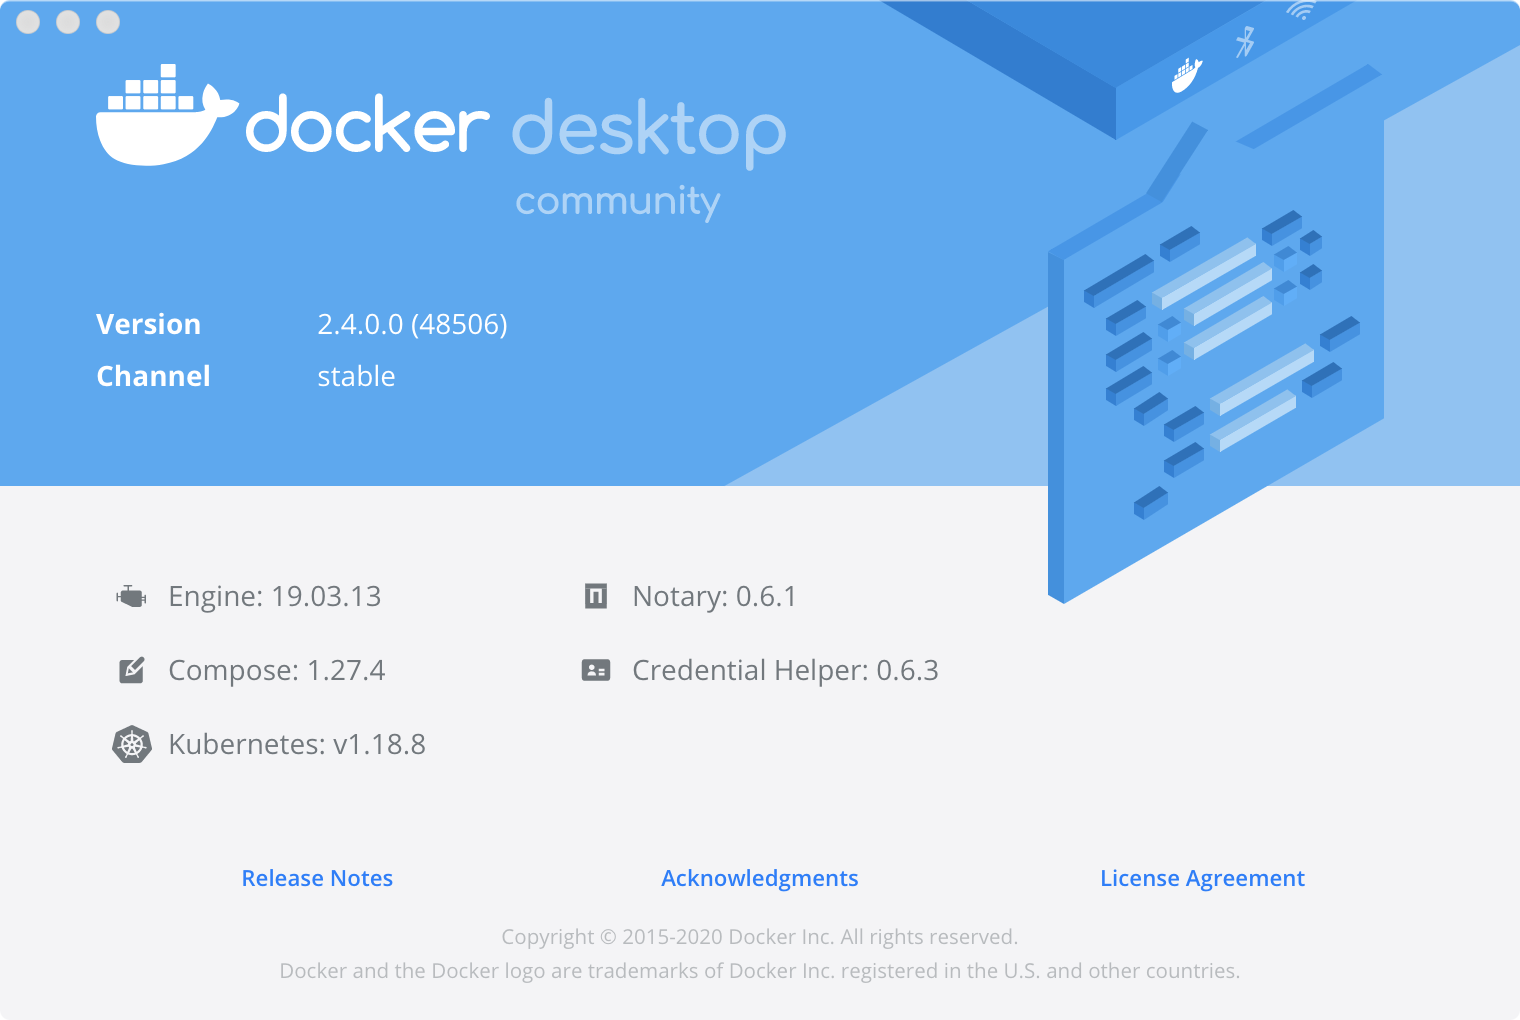
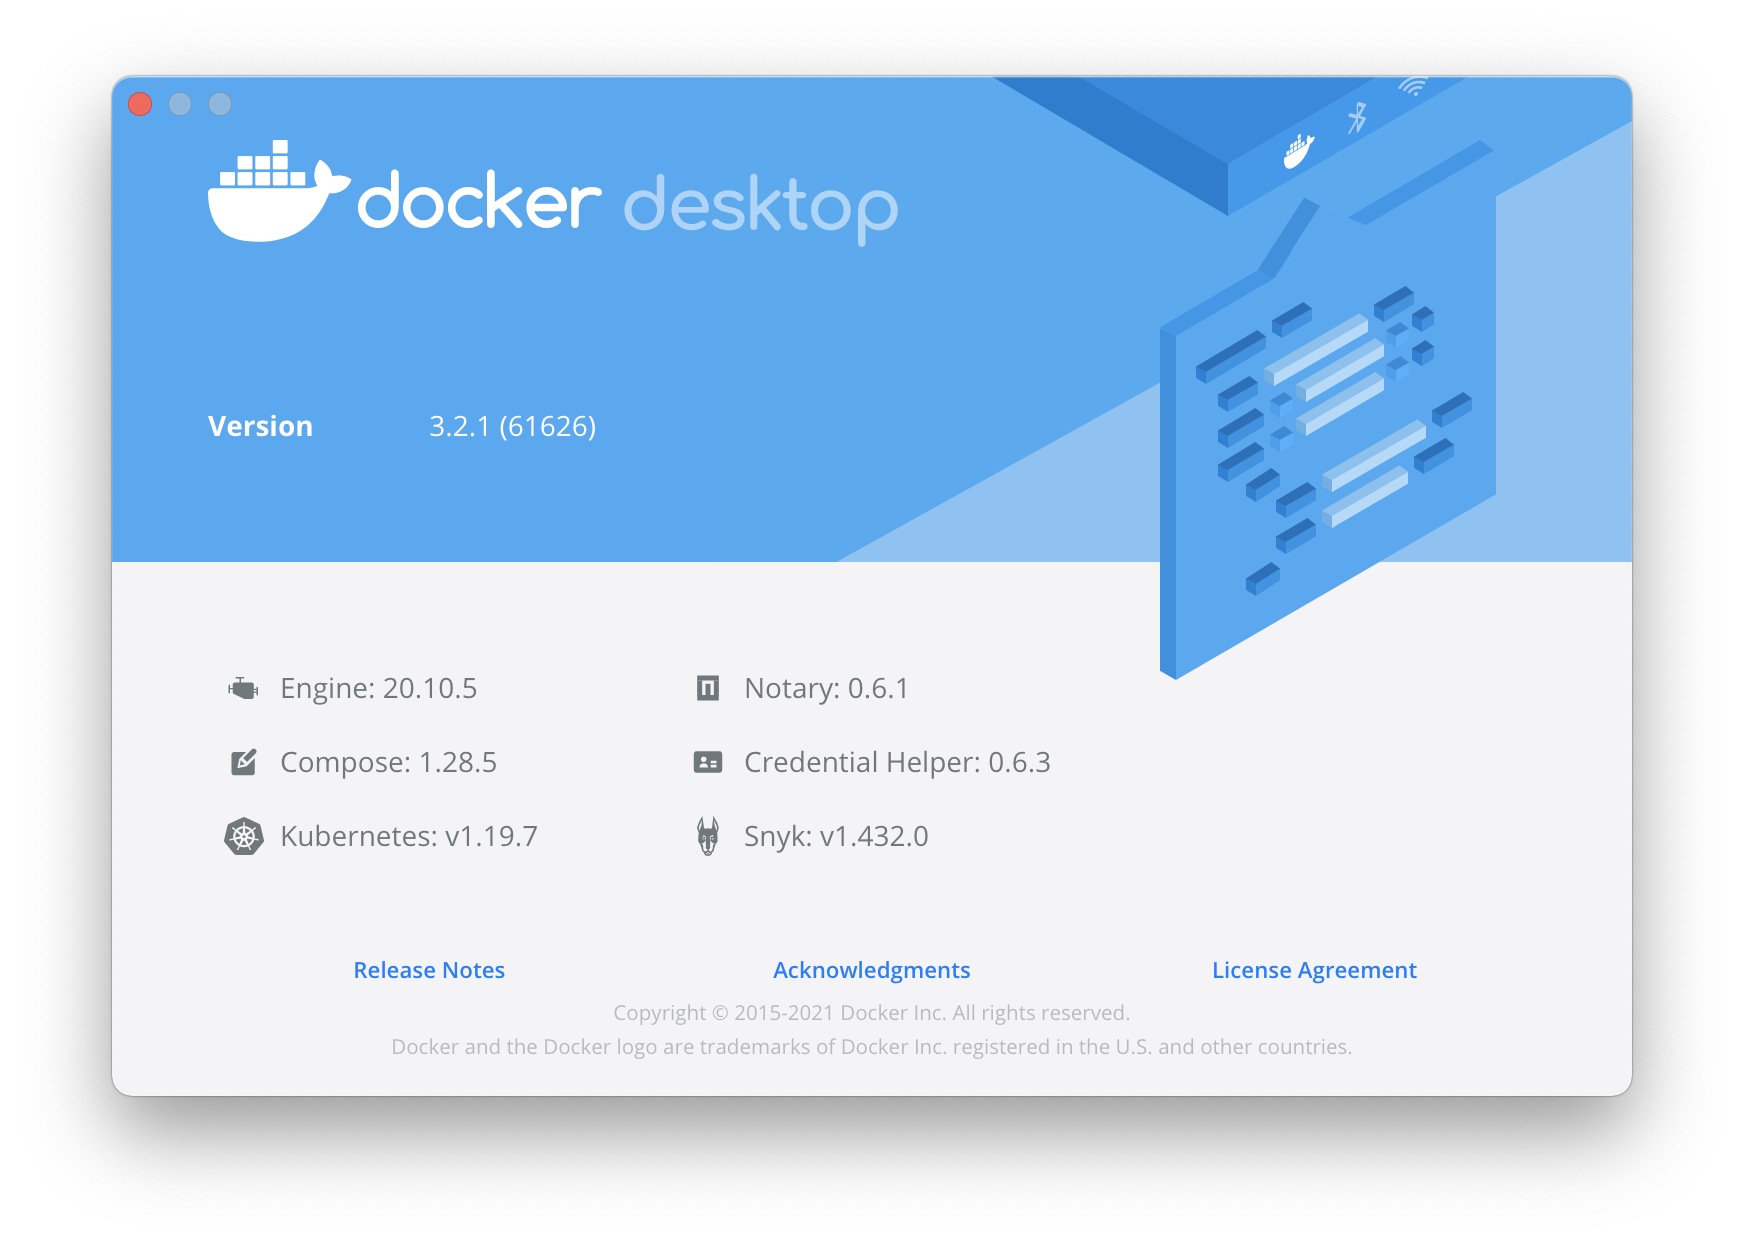
upgrade k8s to v1.19.7

diff --git a/README.md b/README.md
@@ -4,17 +4,18 @@
 
 ![docker-desktop-version](assets/docker-desktop-version.png)
 
-##### Kubernetes v1.18.8
+##### Kubernetes v1.19.7
 
 ```
-docker/desktop-kubernetes:kubernetes-v1.18.8-cni-v0.8.5-critools-v1.17.0
-docker/desktop-storage-provisioner:v1.1
-docker/desktop-vpnkit-controller:v1.0
-k8s.gcr.io/coredns:1.6.7
-k8s.gcr.io/etcd:3.4.3-0
-k8s.gcr.io/kube-apiserver:v1.18.8
-k8s.gcr.io/kube-controller-manager:v1.18.8
-k8s.gcr.io/kube-proxy:v1.18.8
-k8s.gcr.io/kube-scheduler:v1.18.8
-k8s.gcr.io/pause:3.2
+docker/desktop-kuberneteskubernetes-v1.19.7-cni-v0.8.5-critools-v1.17.0-debian
+docker/desktop-storage-provisionerv1.1
+docker/desktop-vpnkit-controllerv1.0
+k8s.gcr.io/coredns1.7.0
+k8s.gcr.io/etcd3.4.13-0
+k8s.gcr.io/kube-apiserverv1.19.7
+k8s.gcr.io/kube-controller-managerv1.19.7
+k8s.gcr.io/kube-proxyv1.19.7
+k8s.gcr.io/kube-schedulerv1.19.7
+k8s.gcr.io/pause3.2
+quay.io/kubernetes-ingress-controller/nginx-ingress-controller0.26.1
 ```
